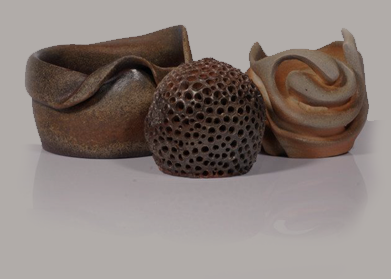
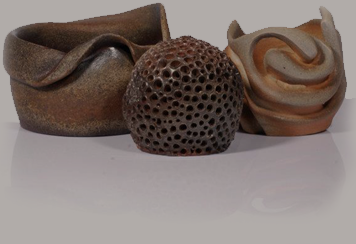
add imagem de fundo
adcionado imagem de fundo e possição da div Rigth

Changed region(s): [[0.0, 0.0, 0.9888, 0.6598]]

diff --git a/artista.html b/artista.html
@@ -48,21 +48,22 @@
 
 
         <div class="content">
-           <!--  <div class="fundo2">
+            <div class="fundo2">
                 <img src="img/fundo2.png" alt="">
-            </div> -->
-            <div class="quoteRigth ">
-                <div class="foto">
-                    <img src="img/pauloneves.png" alt="Paulo Neves">
-                </div>
+            </div> 
+            <div class="quoteRight ">
                 <div class="about">
                     <p>
                         Lorem ipsum dolor sit amet, consectetur adipiscing elit. Maecenas sem turpis, scelerisque non tempor eu, ornare id metus. In aliquet sollicitudin aliquam. Fusce ultricies, magna faucibus feugiat imperdiet, metus velit rutrum ligula, quis dapibus justo neque at lacus. Etiam vel auctor ligula. Aliquam rutrum, magna id facilisis ultrices, mi massa ullamcorper est, at tristique turpis felis a ante. Cum sociis natoque penatibus et magnis dis parturient montes, nascetur ridiculus mus. Sed pharetra, felis ornare ornare porttitor, mauris eros sollicitudin erat, eu rhoncus mi lectus sit amet ante.
 
                         Maecenas eget felis tellus. Suspendisse semper consectetur purus eget ultricies. Praesent erat justo, interdum ut ullamcorper nec, consectetur ac quam. Maecenas nec est dui. Nulla nulla lorem, tempor at lobortis non, sollicitudin ut justo. Vestibulum eget scelerisque nisl. Ut ipsum nunc, eleifend aliquet elementum in, hendrerit sit amet velit. Mauris lacinia facilisis felis vel rhoncus. Donec facilisis mattis erat iaculis porta. Morbi sit amet nisi eu elit dignissim volutpat. Aliquam a orci at mauris rutrum ultrices fringilla ut arcu. Aenean ultrices nisi nunc. Sed id volutpat enim. Duis lobortis, erat eu volutpat dictum, urna massa convallis ante, ac sollicitudin risus neque et velit.
                     </p>
-                </div>
+                </div><!--about-->
+               
             </div><!--quoteRigth-->
+            <div class="foto">
+                    <img src="img/pauloneves.png" alt="Paulo Neves">
+            </div>
 
             <div class="clear"></div>
 

diff --git a/css/style.css b/css/style.css
@@ -116,8 +116,7 @@ a{
 .menu ul{ margin: 0px; padding: 0px; }
 .menu li{ display: inline; padding-left: 51px; font-family: 'OratorStd'; }
 .menu a{ list-style: none; color: #3a3e3d; font-size: 16px; text-transform: uppercase;   }
-.menu a:hover{ color: #cac9c4; text-decoration: none;}
-
+.menu a:hover,.menu.current-menu-item a{ color: #cac9c4; text-decoration: none;}
 
 .imgFundo{ margin-top: 40px; margin-left: 250px;}
 
@@ -136,28 +135,30 @@ a{
 #dados{    position: relative; top: -400px; }
 
 /*========================== o artista================================*/
-.quoteRight{  position: relative; float: right; }
-.foto {
+.quoteRight{
     position: relative;
+    float: right;
+}
+.foto {
     float: left;
     padding-top: 43px;
-    padding-left: 444px;
-    
 }
 .about p{
     font-family: 'Skia-Regular';
     margin: 0px;
     margin-top: 40px;
-    width: 365px;
+    width: 386px;
     float: right;
-    font-size: 13px;
+    font-size: 15px;
+    line-height: 20px;
 }
-/*.fundo2{
+.fundo2{
     position: relative;
     float: left;
-    margin-top: 366px;
-    margin-left: 74px;
-}*/
+    margin-top: 279px;
+    margin-left: 74px;    
+}
+
 
 /*=========================== contato ==================================*/
 .maps{
